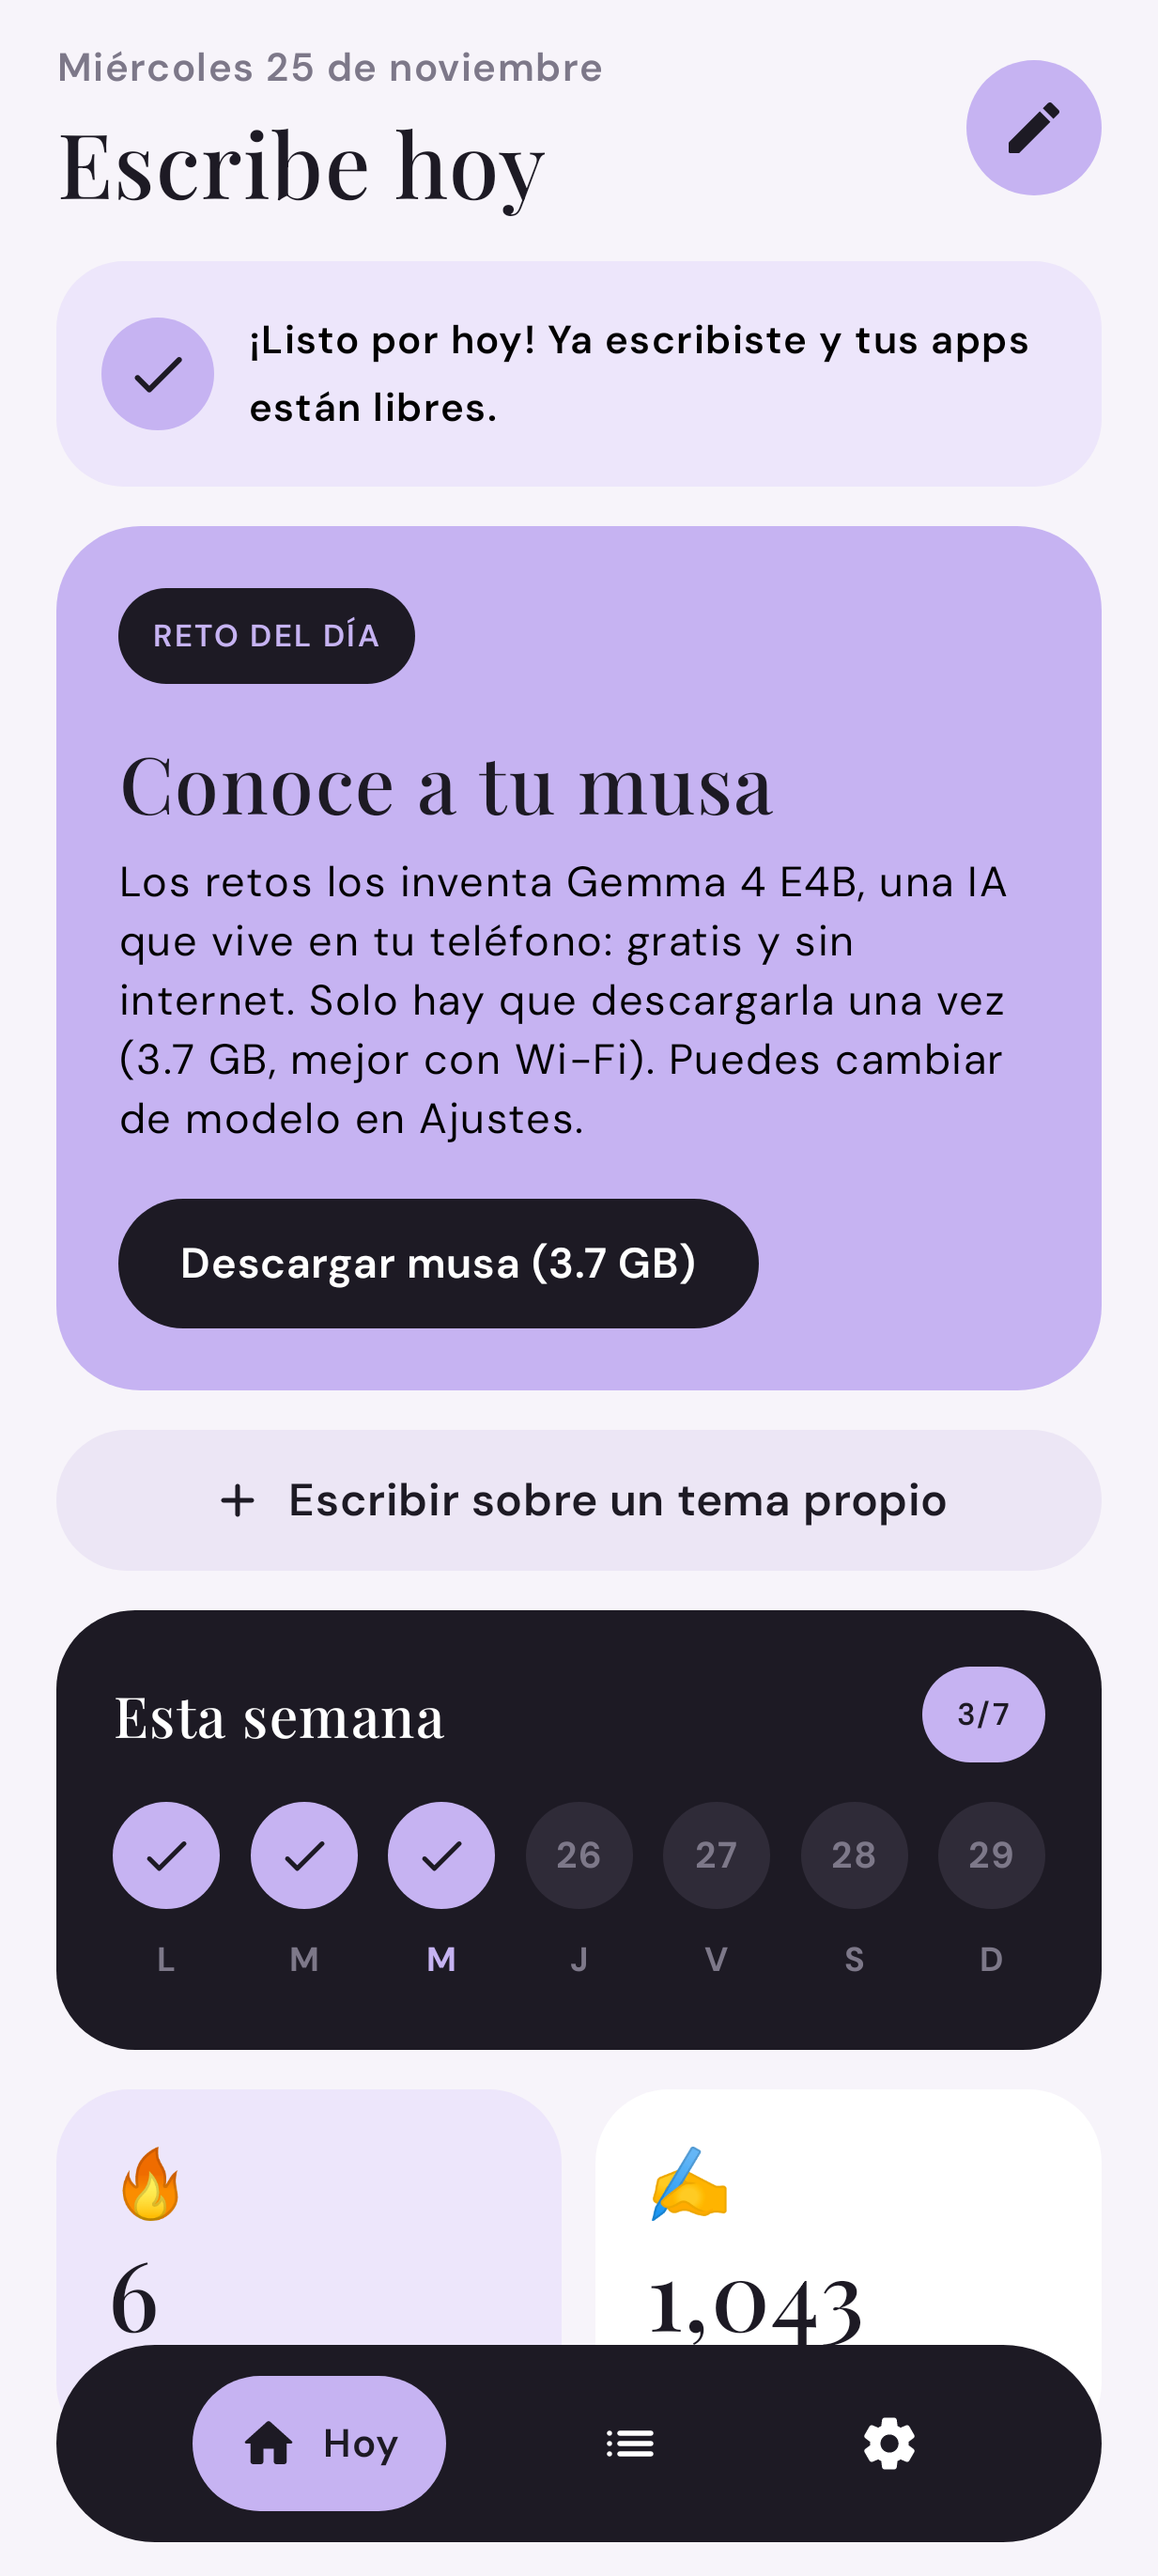
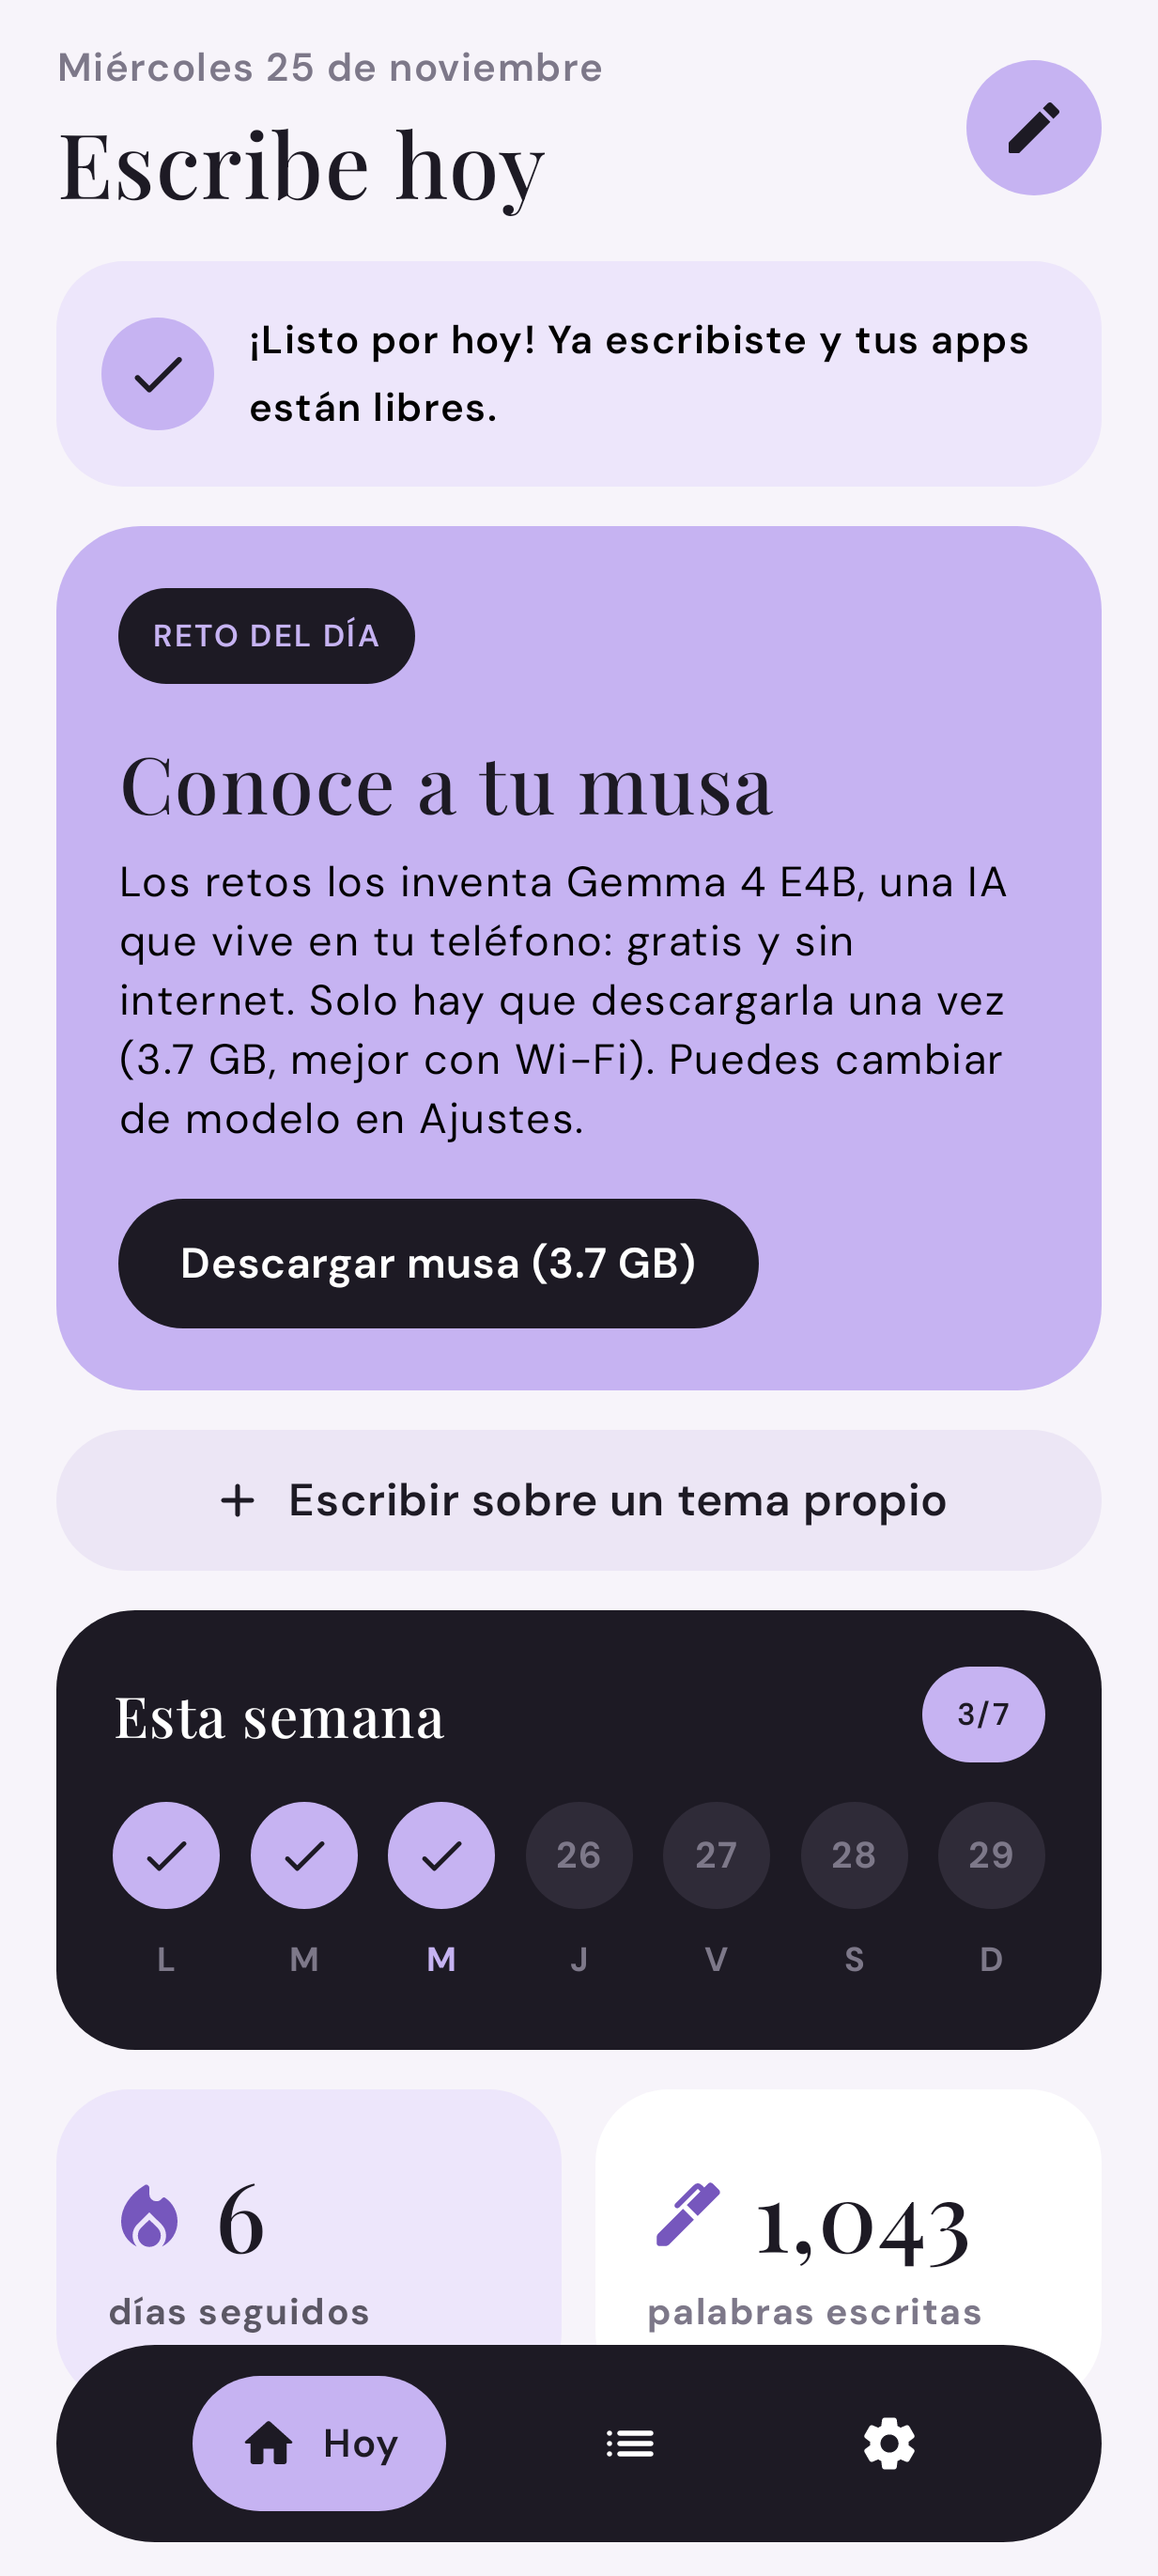
cambio a svg

Changed region(s): [[0.5547, 0.837, 0.8321, 0.93], [0.0925, 0.837, 0.1541, 0.93], [0.1849, 0.837, 0.2466, 0.899]]

diff --git a/app/src/main/java/com/escribe/diario/Screens.kt b/app/src/main/java/com/escribe/diario/Screens.kt
@@ -38,6 +38,7 @@ import androidx.compose.ui.graphics.StrokeCap
 import androidx.compose.ui.graphics.drawscope.Stroke
 import androidx.compose.ui.layout.ContentScale
 import androidx.compose.ui.platform.LocalContext
+import androidx.compose.ui.res.painterResource
 import androidx.compose.ui.text.SpanStyle
 import androidx.compose.ui.text.TextStyle
 import androidx.compose.ui.text.buildAnnotatedString
@@ -95,7 +96,6 @@ fun HomeScreen(store: Store, prompt: Prompt?, busy: Boolean, blocked: Boolean, t
     val streak = remember(tick) { store.streak() }
     val days = remember(tick) { store.daysWritten() }
     val total = remember(tick) { store.totalWords() }
-    val count = remember(tick) { store.entries().size }
     var askCustom by remember { mutableStateOf(false) }
     val today = LocalDate.now()
 
@@ -152,7 +152,11 @@ fun HomeScreen(store: Store, prompt: Prompt?, busy: Boolean, blocked: Boolean, t
                     Column(Modifier.fillMaxWidth().clip(RoundedCornerShape(20.dp)).background(Color.White.copy(alpha = 0.55f)).padding(14.dp),
                         verticalArrangement = Arrangement.spacedBy(6.dp)) {
                         Text(prompt.theme, fontSize = 16.sp)
-                        if (prompt.twist.isNotBlank()) Text("✦ ${prompt.twist}", fontSize = 14.sp, color = C.Ink.copy(alpha = 0.7f))
+                        if (prompt.twist.isNotBlank()) Row {
+                            Icon(painterResource(R.drawable.ic_sparkle), null, tint = C.LilaDeep, modifier = Modifier.padding(top = 2.dp).size(15.dp))
+                            Spacer(Modifier.width(6.dp))
+                            Text(prompt.twist, fontSize = 14.sp, color = C.Ink.copy(alpha = 0.7f))
+                        }
                     }
                 }
                 busy -> { H("La musa está pensando…", 26, italic = true) }
@@ -205,17 +209,23 @@ fun HomeScreen(store: Store, prompt: Prompt?, busy: Boolean, blocked: Boolean, t
         }
 
         Row(horizontalArrangement = Arrangement.spacedBy(12.dp)) {
-            Column(Modifier.weight(1f).height(130.dp).clip(RoundedCornerShape(26.dp)).background(C.LilaSoft).padding(18.dp)) {
-                Text("🔥", fontSize = 24.sp)
-                Spacer(Modifier.weight(1f))
-                H("$streak", 34)
+            Column(Modifier.weight(1f).height(112.dp).clip(RoundedCornerShape(26.dp)).background(C.LilaSoft).padding(18.dp),
+                verticalArrangement = Arrangement.Center) {
+                Row(verticalAlignment = Alignment.CenterVertically) {
+                    Icon(painterResource(R.drawable.ic_fire), null, tint = C.LilaDeep, modifier = Modifier.size(30.dp))
+                    Spacer(Modifier.width(8.dp))
+                    H("$streak", 34)
+                }
                 Text("días seguidos", color = C.Ink.copy(alpha = 0.7f), fontSize = 13.sp, fontWeight = FontWeight.Bold)
             }
-            Column(Modifier.weight(1f).height(130.dp).clip(RoundedCornerShape(26.dp)).background(C.Card).padding(18.dp)) {
-                Text("✍", fontSize = 24.sp)
-                Spacer(Modifier.weight(1f))
-                H("%,d".format(total), 34)
-                Text("palabras en $count historias", color = C.Muted, fontSize = 13.sp, fontWeight = FontWeight.Bold)
+            Column(Modifier.weight(1f).height(112.dp).clip(RoundedCornerShape(26.dp)).background(C.Card).padding(18.dp),
+                verticalArrangement = Arrangement.Center) {
+                Row(verticalAlignment = Alignment.CenterVertically) {
+                    Icon(painterResource(R.drawable.ic_pen), null, tint = C.LilaDeep, modifier = Modifier.size(30.dp))
+                    Spacer(Modifier.width(8.dp))
+                    H("%,d".format(total), 34)
+                }
+                Text("palabras escritas", color = C.Muted, fontSize = 13.sp, fontWeight = FontWeight.Bold)
             }
         }
     }
@@ -296,11 +306,17 @@ fun WriteScreen(store: Store, prompt: Prompt, custom: String?, onSaved: () -> Un
             HorizontalDivider(Modifier.padding(horizontal = 16.dp), color = C.Line)
             // Barra compacta estilo Twitter: estado · anillo · Guardar
             Row(Modifier.fillMaxWidth().padding(horizontal = 16.dp, vertical = 10.dp), verticalAlignment = Alignment.CenterVertically) {
-                Text(when {
-                    words < min -> "Faltan ${min - words}"
-                    words >= max -> "Llegaste al límite"
-                    else -> "Mínimo ✓"
-                }, Modifier.weight(1f), color = if (words >= min) C.LilaDeep else C.Muted, fontSize = 13.sp, fontWeight = FontWeight.Medium)
+                Row(Modifier.weight(1f), verticalAlignment = Alignment.CenterVertically) {
+                    Text(when {
+                        words < min -> "Faltan ${min - words}"
+                        words >= max -> "Llegaste al límite"
+                        else -> "Mínimo"
+                    }, color = if (words >= min) C.LilaDeep else C.Muted, fontSize = 13.sp, fontWeight = FontWeight.Medium)
+                    if (words in min until max) {
+                        Spacer(Modifier.width(4.dp))
+                        Icon(painterResource(R.drawable.ic_check), null, tint = C.LilaDeep, modifier = Modifier.size(16.dp))
+                    }
+                }
                 Ring(words, min, max)
                 Spacer(Modifier.width(6.dp))
                 Text("$words/$max", color = C.Muted, fontSize = 12.sp, fontWeight = FontWeight.Medium)
@@ -346,10 +362,15 @@ fun Celebrate(words: Int, streak: Int, onDone: () -> Unit) {
     Dialog(onDismissRequest = onDone) {
         Column(Modifier.fillMaxWidth().clip(RoundedCornerShape(32.dp)).background(C.Ink).padding(26.dp),
             horizontalAlignment = Alignment.CenterHorizontally, verticalArrangement = Arrangement.spacedBy(10.dp)) {
-            Text("🏆", fontSize = 64.sp)
+            Icon(painterResource(R.drawable.ic_trophy), null, tint = C.Lila, modifier = Modifier.size(72.dp))
             H("¡Sigue así!", 30, Color.White)
             Text(msg, color = Color.White.copy(alpha = 0.8f), textAlign = TextAlign.Center, fontSize = 15.sp)
-            Tag("🔥  $streak ${if (streak == 1) "DÍA" else "DÍAS"} DE RACHA", C.Lila, C.Ink)
+            Row(Modifier.clip(RoundedCornerShape(50)).background(C.Lila).padding(horizontal = 12.dp, vertical = 5.dp),
+                verticalAlignment = Alignment.CenterVertically) {
+                Icon(painterResource(R.drawable.ic_fire), null, tint = C.Ink, modifier = Modifier.size(15.dp))
+                Spacer(Modifier.width(5.dp))
+                Text("$streak ${if (streak == 1) "DÍA" else "DÍAS"} DE RACHA", color = C.Ink, fontWeight = FontWeight.SemiBold, fontSize = 11.sp, letterSpacing = 0.8.sp)
+            }
             Spacer(Modifier.height(4.dp))
             Pill("Genial", onDone, Modifier.fillMaxWidth(), bg = Color.White, fg = C.Ink, height = 50.dp)
         }

diff --git a/app/src/test/java/com/escribe/diario/ScreenshotTest.kt b/app/src/test/java/com/escribe/diario/ScreenshotTest.kt
@@ -71,6 +71,11 @@ Había practicado mil formas de decirlo, pero ahora, bajo ese temblor dorado de 
         Box(Modifier.fillMaxSize()) { HomeScreen(store, prompt, false, true, 0, {}, {}, {}, {}); BottomBar(Tab.HOME, Modifier.align(Alignment.BottomCenter)) {} }
     } }
 
+    @Config(qualifiers = "w411dp-h1500dp-xxhdpi")
+    @Test fun a1_home_completo() { seed(true); shot("1g_inicio_completo") {
+        HomeScreen(store, prompt, false, false, 0, {}, {}, {}, {})
+    } }
+
     @Test fun a2_home_frase() { seed(true); val f = frase; shot("1b_inicio_frase") {
         Box(Modifier.fillMaxSize()) { HomeScreen(store, f, false, false, 0, {}, {}, {}, {}); BottomBar(Tab.HOME, Modifier.align(Alignment.BottomCenter)) {} }
     } }
